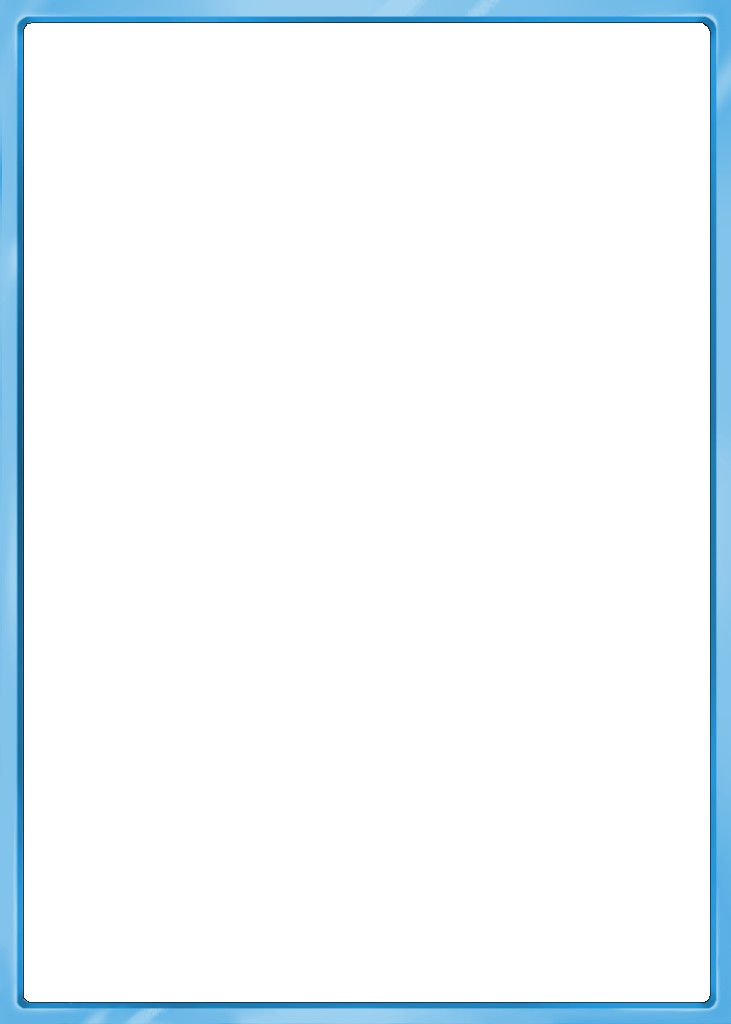
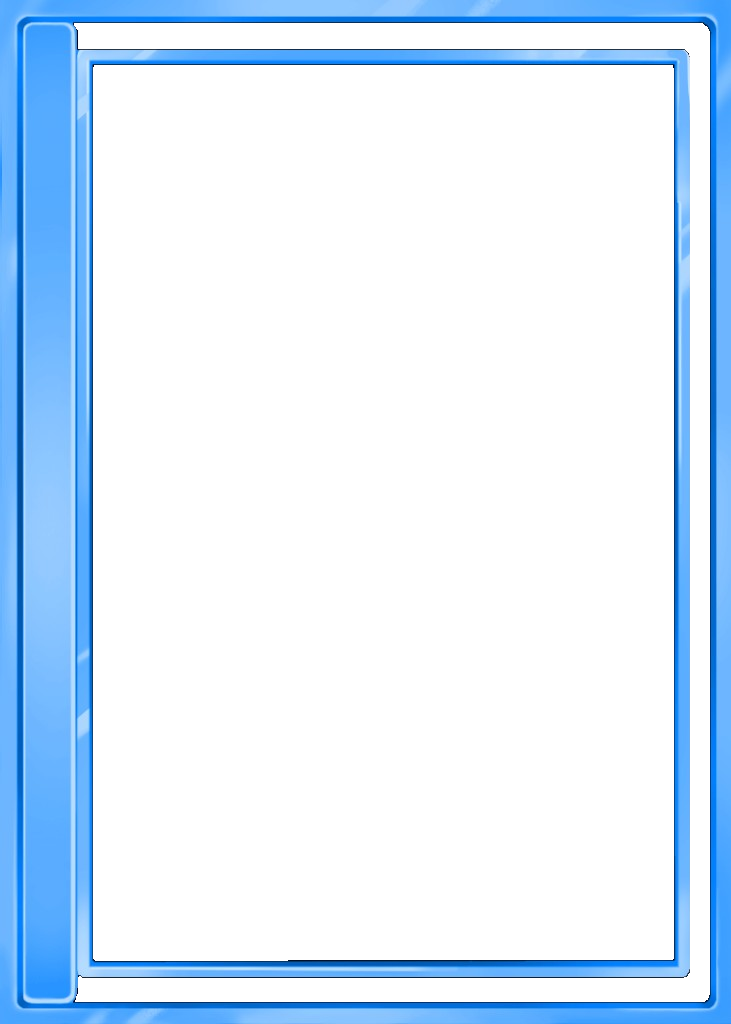
Replace Radiance frame art and reduce evolved card edge crop.
Swap in updated frame PNGs with transparent centers and scale card art slightly under prestige overlays.

Changed region(s): [[0.0, 0.0, 1.0, 1.0]]

diff --git a/docs/css/prestige-frames.css b/docs/css/prestige-frames.css
@@ -1,5 +1,9 @@
 /* Starlight Evolution frames — Radiance I–V transparent PNG overlays. */
 
+:root {
+  --prestige-art-scale: 1.045;
+}
+
 .prestige-frame .v61-card-btn,
 .prestige-frame .v61-card-art,
 .prestige-frame .collection-image,
@@ -19,6 +23,7 @@
 .collection-card.prestige-frame .collection-image {
   position: relative;
   isolation: isolate;
+  overflow: visible !important;
 }
 
 .prestige-frame-overlay {
@@ -26,7 +31,7 @@
   inset: 0 !important;
   width: 100% !important;
   height: 100% !important;
-  object-fit: fill !important;
+  object-fit: contain !important;
   pointer-events: none;
   user-select: none;
   z-index: 5;
@@ -41,6 +46,47 @@
 .st-evo-tier-preview > img:not(.prestige-frame-overlay) {
   position: relative;
   z-index: 1;
+}
+
+/* Let the Radiance PNG define corners; show a hair more card art under the frame window. */
+.collection-card.prestige-frame .collection-image,
+.collection-card.prestige-frame .collection-image > img:not(.prestige-frame-overlay),
+.prestige-frame .collection-image,
+.prestige-frame .collection-image > img:not(.prestige-frame-overlay),
+.prestige-frame .v61-card-art,
+.prestige-frame .v61-card-art > img:not(.prestige-frame-overlay),
+.full-card-wrap.prestige-frame .face.front,
+.full-card-wrap.prestige-frame .face.front > img:not(.prestige-frame-overlay),
+.preview-card.prestige-frame .face.front,
+.preview-card.prestige-frame .face.front > img:not(.prestige-frame-overlay),
+.v62-preview-card.prestige-frame .face.front,
+.v62-preview-card.prestige-frame .face.front > img:not(.prestige-frame-overlay),
+.st-r3-result-art.prestige-frame,
+.st-r3-result-art.prestige-frame > img:not(.prestige-frame-overlay),
+.st-r3-card-front.prestige-frame > img:not(.prestige-frame-overlay),
+.st-evo-result-art.prestige-frame,
+.st-evo-result-art.prestige-frame > img:not(.prestige-frame-overlay),
+.st-evo-detail-art .collection-image,
+.st-evo-detail-art .collection-image > img:not(.prestige-frame-overlay),
+.st-evo-owned-card .collection-image,
+.st-evo-owned-card .collection-image > img:not(.prestige-frame-overlay) {
+  border-radius: 0 !important;
+  overflow: visible !important;
+}
+
+.collection-card.prestige-frame .collection-image > img:not(.prestige-frame-overlay),
+.prestige-frame .collection-image > img:not(.prestige-frame-overlay),
+.prestige-frame .v61-card-art > img:not(.prestige-frame-overlay),
+.full-card-wrap.prestige-frame .face.front > img:not(.prestige-frame-overlay),
+.preview-card.prestige-frame .face.front > img:not(.prestige-frame-overlay),
+.v62-preview-card.prestige-frame .face.front > img:not(.prestige-frame-overlay),
+.st-r3-result-art.prestige-frame > img:not(.prestige-frame-overlay),
+.st-r3-card-front.prestige-frame > img:not(.prestige-frame-overlay),
+.st-evo-result-art.prestige-frame > img:not(.prestige-frame-overlay),
+.st-evo-detail-art .collection-image > img:not(.prestige-frame-overlay),
+.st-evo-owned-card .collection-image > img:not(.prestige-frame-overlay) {
+  transform: scale(var(--prestige-art-scale));
+  transform-origin: center center;
 }
 
 .full-card-wrap.prestige-frame .face.front,

diff --git a/docs/binder.html b/docs/binder.html
@@ -13,7 +13,7 @@
 <link href="css/card-filters.css?v=1.0" rel="stylesheet"/>
 <link href="css/pages/binder.css?v=1.7.5" rel="stylesheet"/><script src="js/browser-performance.js?v=1.0.0" defer></script>
     <link rel="stylesheet" href="css/shared-ui.css?v=1.6.19">
-<link rel="stylesheet" href="css/prestige-frames.css?v=2.9">
+<link rel="stylesheet" href="css/prestige-frames.css?v=3.0">
 <link rel="stylesheet" href="css/qol-ui.css?v=94.2.11">
 <link rel="stylesheet" href="css/pages/card-analyzer.css?v=2.4.2">
 </head>

diff --git a/docs/starlight-evolution.html b/docs/starlight-evolution.html
@@ -6,7 +6,7 @@
 <title>Evolve My Cards | Starlight Card Binder</title>
 <link href="css/style.css?v=1.0.3" rel="stylesheet"/>
 <link rel="stylesheet" href="css/shared-ui.css?v=1.6.19"/>
-<link rel="stylesheet" href="css/prestige-frames.css?v=2.9"/>
+<link rel="stylesheet" href="css/prestige-frames.css?v=3.0"/>
 <link rel="stylesheet" href="css/pages/starlight-evolution.css?v=2.4.1"/>
 <link rel="stylesheet" href="css/qol-ui.css?v=94.2.10"/>
 <script src="js/browser-performance.js?v=1.0.0" defer></script>

diff --git a/docs/js/prestige-utils.js b/docs/js/prestige-utils.js
@@ -37,7 +37,7 @@ export const EVOLUTION_LABELS = Object.freeze({
 export const FUSION_LABELS = EVOLUTION_LABELS;
 
 /** Bump when Radiance PNG assets change (cache bust). */
-export const PRESTIGE_FRAME_ASSET_VERSION = '2.9';
+export const PRESTIGE_FRAME_ASSET_VERSION = '3.0';
 
 const LEGACY_TIER_MAP = Object.freeze({
   standard: 'stardust',

diff --git a/docs/js/reward-reveal.js b/docs/js/reward-reveal.js
@@ -285,7 +285,7 @@ const REVEAL_STYLESHEET_URL = new URL(
 ).href;
 const PRESTIGE_STYLESHEET_ID = 'starlight-prestige-frames';
 const PRESTIGE_STYLESHEET_URL = new URL(
-  '../css/prestige-frames.css?v=2.9',
+  '../css/prestige-frames.css?v=3.0',
   import.meta.url
 ).href;
 const stylesheetLoads = new WeakMap();
